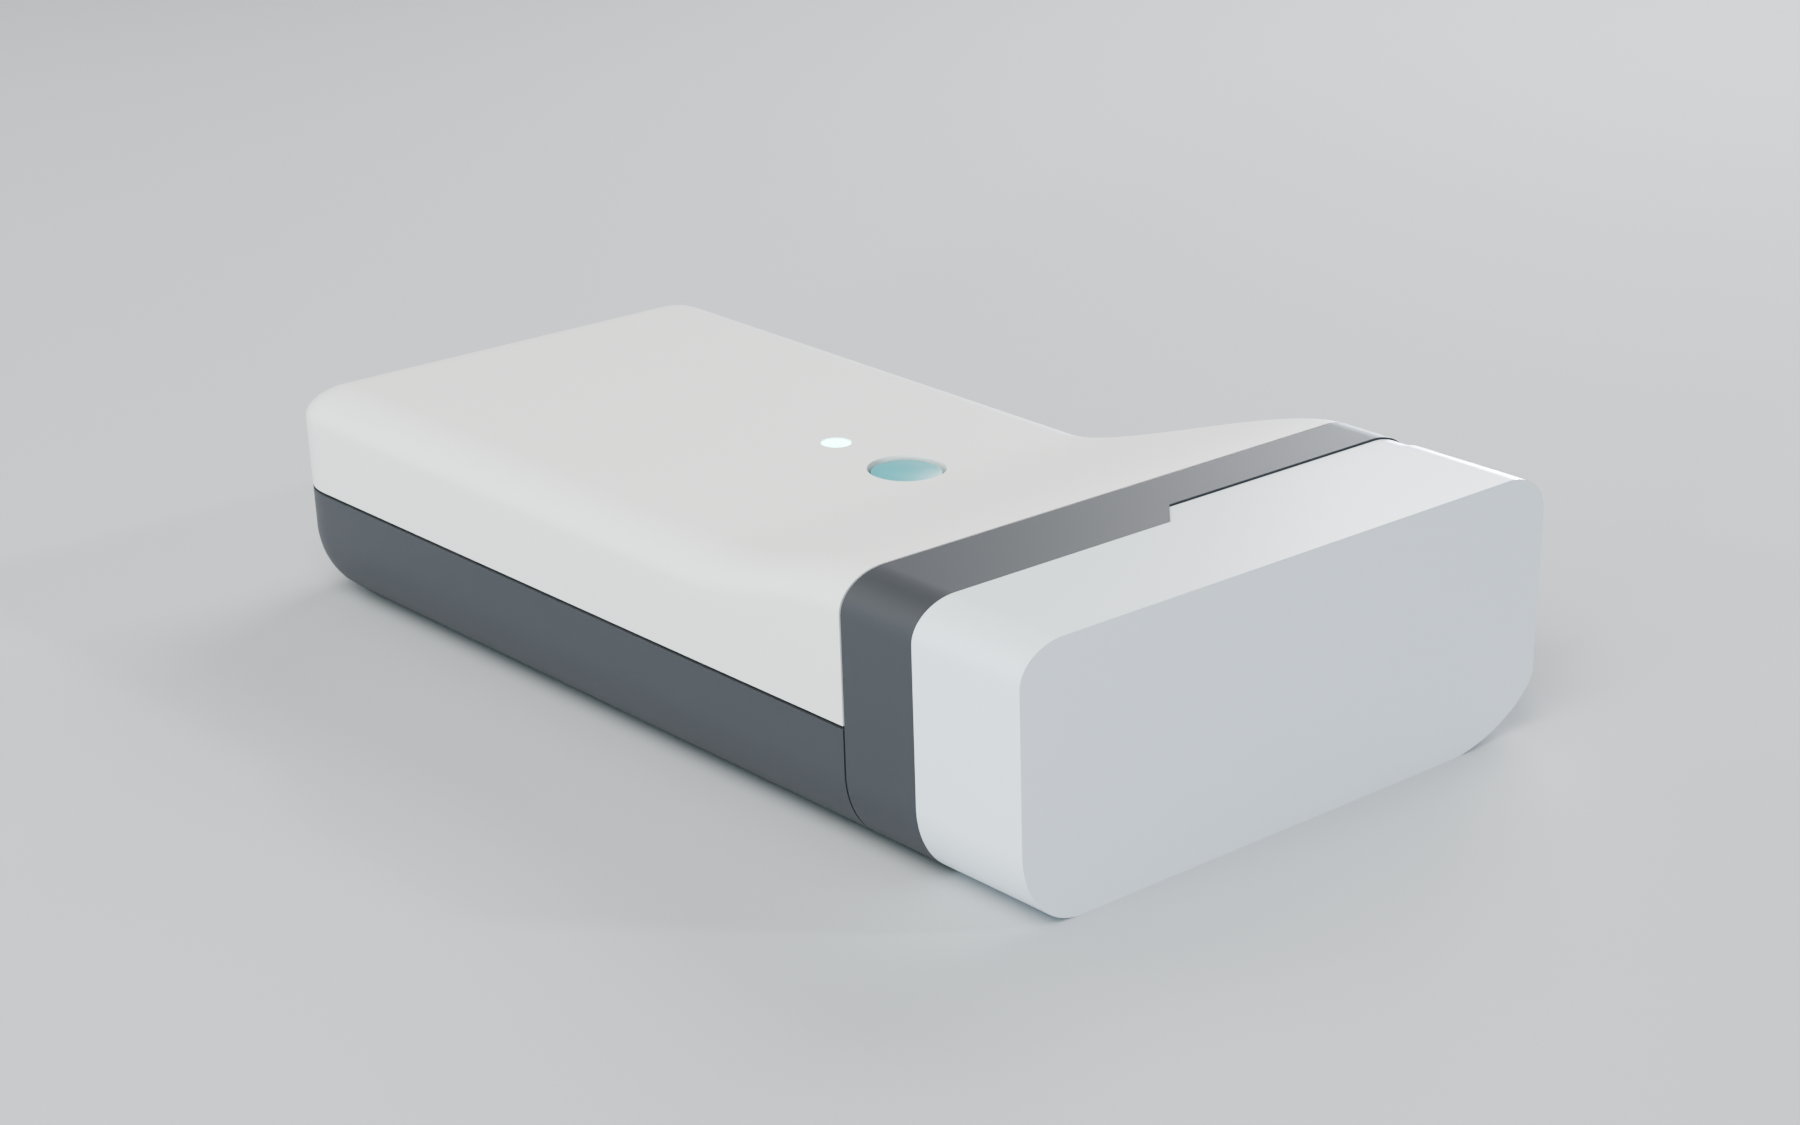
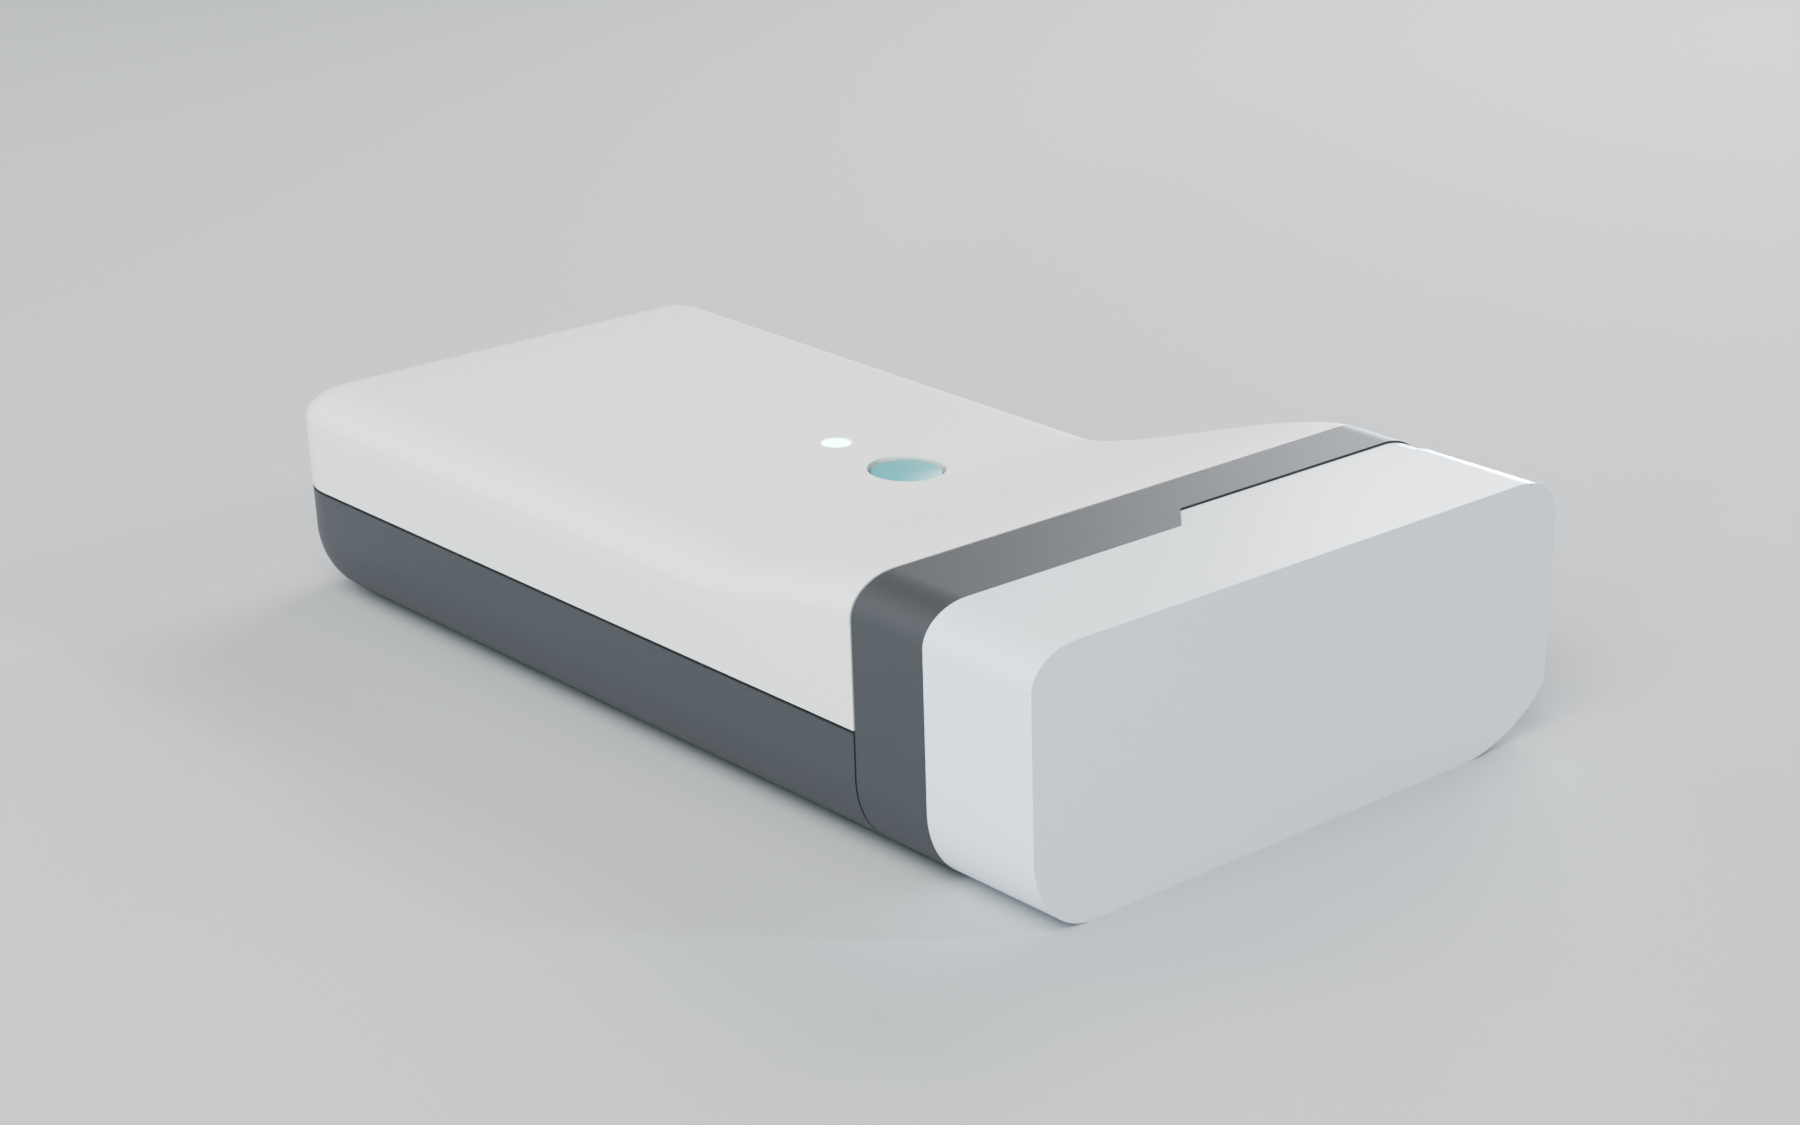
feat(mechanical): cart A v2 rear stop ring behind the cartridge + package review
Owner: the cartridge must not slide back further than intended, only the
inner radius may stay open for the pusher. Before, only the pusher (via
the stopper) held it from behind. Now a ring wall closes the cartridge
chamber behind the barrel: the barrel's rear end face rests on it, d8.9
stays open for the pusher (d8.4) and the stem. On the ring the cap face
sits 0.3 below the head face, the tested adapter seat.

Everything from the cartridge forward moves +1.0 (yoke travel unchanged,
stem 1.0 longer): 81.4 x 49 x 19 with the adapter, full 1.59 ml kept,
envelope 55.9 ml vs the Insight box 83 ml (-33 %). Package check PASS.
Review and open points in CART-A-V2-BRIEF.md section 7 (antenna wing,
connections without soldering, yoke rails, board stop for the USB plug).

TEST ONLY - water only, never on a person.

diff --git a/mechanical/cart_a_v2/package.py b/mechanical/cart_a_v2/package.py
@@ -18,7 +18,7 @@ from itertools import combinations
 from pathlib import Path
 
 import numpy as np
-from build123d import Face, Plane, Solid, Vector, Wire, export_stl, import_step
+from build123d import Face, Plane, Pos, Solid, Vector, Wire, export_stl, import_step
 
 HERE = Path(__file__).resolve().parent
 MECH = HERE.parent
@@ -29,12 +29,13 @@ OUT = MECH / "out" / "cart_a_v2"
 V1 = MECH / "out" / "v010-cart" / "A" / "print"
 
 # ---- form ---------------------------------------------------------------------------------------------------------
-X_JOINT = 64.26            # head module back face (head 6.6 deep, face at 70.86)
-X_FACE = 70.86
+XS = 1.0                   # rear stop ring behind the barrel (owner 2026-11-27): everything from the cartridge forward moves +1.0
+X_JOINT = 64.26 + XS       # head module back face (head 6.6 deep)
+X_FACE = 70.86 + XS
 GAP = 0.15                 # visible joint line body | head
 HEAD_L, HEAD_W = 49.0, 19.0  # head section (width y, height z) = adapter outline
 BODY_L, BODY_W = 38.0, 16.6  # body section: motor edge 36.4 + wall; gear tip 15.04 + wall
-FLARE_X0 = 48.0            # body flares into the head from here (smoothstep, tangent at both ends); top flat before it
+FLARE_X0 = 48.0 + XS       # body flares into the head from here (smoothstep, tangent at both ends); top flat before it
 REAR_R = 5.0               # rear end rounded with this profile radius
 WALL, CLR = 1.2, 0.2
 SEAM_Z = 8.74              # parting line = cartridge axis height
@@ -44,9 +45,9 @@ YC, ZC = 11.46, 8.74       # cartridge axis (fixed by the adapter cup position i
 YS, YM = 25.635, 33.435    # screw lane, motor lane (a = 7.8)
 STROKE = 23.66
 PART_Y = (17.25, 18.85)    # chamber partition (cartridge chamber | drive + electronics)
-BOARD = {"x": (32.6, 61.8), "y": (19.35, 36.3), "pcb_z": (8.34, 9.14), "top": 1.45, "bottom": 1.2}   # pcb centre on the seam (USB-C)
-TONGUE = {"x": (58.0, 62.96), "y": (34.5, 39.96)}
-CELL = {"x": (32.3, 63.8), "y": (23.8, 34.4), "z": (11.1, 14.3)}       # above the board, clear of the top head boss (y <= 23.46)
+BOARD = {"x": (32.6, 61.8 + XS), "y": (19.35, 36.3), "pcb_z": (8.34, 9.14), "top": 1.45, "bottom": 1.2}   # pcb centre on the seam (USB-C)
+TONGUE = {"x": (58.0 + XS, 62.96 + XS), "y": (34.5, 39.96)}
+CELL = {"x": (32.3 + XS, 63.8 + XS), "y": (23.8, 34.4), "z": (11.1, 14.3)}       # above the board, clear of the top head boss (y <= 23.46)
 USB_X, USB_Z = 40.0, 8.74  # mid-mount, centred ON the seam: each half has half the stadium, no thin bridge (owner 2026-11-27)
 BUTTON_XY, LED_XY = (46.5, 21.5), (39.0, 21.5)   # beside the cell, mid top face; 3.6 mm wall between the holes
 HEAD_SCREWS = [(21.46, 3.24), (21.46, 14.04)]   # axial M2 through the head face (under the adapter) into the bottom / top half
@@ -176,15 +177,16 @@ def parts(state: str = "full") -> dict[str, tuple[Solid, str, bool]]:
     dx = STROKE if state == "empty" else 0.0
     pz0, pz1 = BOARD["pcb_z"]
     P: dict[str, tuple[Solid, str, bool]] = {}
-    glass = cyl_x(27.56, 59.56, YC, ZC, 10.95) - cyl_x(27.4, 59.7, YC, ZC, 9.25)
-    glass = glass + (cone_x(59.56, 63.56, YC, ZC, 10.95, 5.6) - cone_x(59.56, 63.0, YC, ZC, 9.25, 3.2))
-    P["cartridge_glass"] = (glass + cyl_x(63.56, 65.66, YC, ZC, 5.6), "glass", False)
-    P["cartridge_cap"] = (cyl_x(65.66, 70.56, YC, ZC, 7.5), "alu", False)
+    c0 = 27.56 + XS                                   # barrel rear end face, sits on the rear stop ring
+    glass = cyl_x(c0, c0 + 32, YC, ZC, 10.95) - cyl_x(c0 - 0.16, c0 + 32.14, YC, ZC, 9.25)
+    glass = glass + (cone_x(c0 + 32, c0 + 36, YC, ZC, 10.95, 5.6) - cone_x(c0 + 32, c0 + 35.44, YC, ZC, 9.25, 3.2))
+    P["cartridge_glass"] = (glass + cyl_x(c0 + 36, c0 + 38.1, YC, ZC, 5.6), "glass", False)
+    P["cartridge_cap"] = (cyl_x(c0 + 38.1, c0 + 43.0, YC, ZC, 7.5), "alu", False)
     if not dx:
-        P["water"] = (cyl_x(35.86, 59.4, YC, ZC, 9.2), "water", True)   # EMPTY: no water left
-    P["stopper"] = (cyl_x(27.86 + dx, 35.86 + dx, YC, ZC, 9.25), "rubber", True)
-    P["pusher"] = (cyl_x(27.06 + dx, 27.86 + dx, YC, ZC, 8.4), "plastic_dark", True)
-    P["stem"] = (cyl_x(3.6 + dx, 27.06 + dx, YC, ZC, 2.0), "steel", True)
+        P["water"] = (cyl_x(c0 + 8.3, c0 + 31.84, YC, ZC, 9.2), "water", True)   # EMPTY: no water left
+    P["stopper"] = (cyl_x(c0 + 0.3 + dx, c0 + 8.3 + dx, YC, ZC, 9.25), "rubber", True)
+    P["pusher"] = (cyl_x(c0 - 0.5 + dx, c0 + 0.3 + dx, YC, ZC, 8.4), "plastic_dark", True)   # passes the d8.9 stop ring
+    P["stem"] = (cyl_x(3.6 + dx, c0 - 0.5 + dx, YC, ZC, 2.0), "steel", True)                 # 1.0 longer than v1
     yoke = box((1.6 + dx, 3.6 + dx), (YC - 3.0, YS + 3.0), (ZC - 2.75, ZC + 2.75))
     P["yoke"] = (yoke, "plastic_dark", True)
     P["screw"] = (cyl_x(0.6, 32.0, YS, ZC, 2.0), "steel", False)          # front end inside rib_f (v1: 32.46)
@@ -201,12 +203,12 @@ def parts(state: str = "full") -> dict[str, tuple[Solid, str, bool]]:
     P["ko_board_top"] = (box((BOARD["x"][0], BOARD["x"][1]), BOARD["y"], (pz1, pz1 + BOARD["top"])), "ko", False)
     P["ko_board_bottom"] = (box((BOARD["x"][0], 60.5), BOARD["y"], (pz0 - BOARD["bottom"], pz0)), "ko", False)
     P["usb_c"] = (box((USB_X - 4.47, USB_X + 4.47), (36.8 - 7.35, 36.8), (USB_Z - 1.63, USB_Z + 1.63)), "steel", False)
-    P["lock_switch"] = (box((59.76, 63.26), (37.46 - 1.75, 37.46 + 1.75), (pz0 - 1.6, pz0)), "black", False)   # tongue underside: actuator ~7.7, pin d2 at 7.07
-    P["lock_pin"] = (cyl_x(63.26, 66.56, 37.46, 7.07, 2.0), "steel", False)
+    P["lock_switch"] = (box((59.76 + XS, 63.26 + XS), (37.46 - 1.75, 37.46 + 1.75), (pz0 - 1.6, pz0)), "black", False)   # tongue underside: actuator ~7.7, pin d2 at 7.07
+    P["lock_pin"] = (cyl_x(63.26 + XS, 66.56 + XS, 37.46, 7.07, 2.0), "steel", False)
     P["tmag"] = (box((32.8, 34.8), (YM - 1.0, YM + 1.0), (pz1, pz1 + 0.75)), "black", False)
     P["sw1"] = (box((BUTTON_XY[0] - 1.75, BUTTON_XY[0] + 1.75), (BUTTON_XY[1] - 1.75, BUTTON_XY[1] + 1.75), (pz1, pz1 + 1.5)), "black", False)
     P["led"] = (box((LED_XY[0] - 0.8, LED_XY[0] + 0.8), (LED_XY[1] - 0.8, LED_XY[1] + 0.8), (pz1, pz1 + 0.6)), "led", False)
-    P["sounder"] = (cyl_z(56.0, 26.0, pz0 - 2.5, pz0, 5.0), "black", False)
+    P["sounder"] = (cyl_z(56.0 + XS, 26.0, pz0 - 2.5, pz0, 5.0), "black", False)
     P["cell"] = (box(CELL["x"], CELL["y"], CELL["z"]), "cell", False)
     return P
 
@@ -220,14 +222,14 @@ def housing_features() -> dict[str, tuple[Solid, str]]:
     """Internal walls that matter for the package (not the whole shell): chamber partition + rear seal ring, head screw bosses,
     button plunger and LED light pipe (they cross the cavity)."""
     H: dict[str, tuple[Solid, str]] = {}
-    sec = [(y, z) for y, z in inner_poly(28.06)]                      # the cavity section, cut at the partition
-    sec = [(min(y, PART_Y[1]), z) for y, z in sec]
+    # rear stop ring = chamber rear wall: the barrel's rear end face (OD 10.95 / ID 9.25) rests on it; only d8.9 stays open for the
+    # pusher (d8.4) and the stem. A 0.5 TPU washer on it takes up the cartridge length tolerance and seals (detail CAD).
+    sec = [(min(y, PART_Y[1]), z) for y, z in inner_poly(28.06)]   # the cavity section, cut at the partition
     face = Face(Wire.make_polygon([Vector(27.56, y, z) for y, z in sec], close=True))
-    seal = Solid.extrude(face, Vector(1.0, 0, 0)) - cyl_x(27.4, 28.7, YC, ZC, 11.25)
-    H["chamber_seal"] = (seal, "shell")
+    H["rear_stop"] = (Solid.extrude(face, Vector(XS, 0, 0)) - cyl_x(27.4, 28.7, YC, ZC, 8.9), "shell")
     H["partition"] = (box((27.56, X_JOINT - GAP), PART_Y, (WALL, 15.4)), "shell")
     for k, (y, z) in enumerate(HEAD_SCREWS):
-        H[f"head_boss{k}"] = (cyl_x(60.86, X_JOINT - GAP, y, z, 4.0), "shell")
+        H[f"head_boss{k}"] = (cyl_x(60.86 + XS, X_JOINT - GAP, y, z, 4.0), "shell")
     bx, by = BUTTON_XY
     H["button_plunger"] = (cyl_z(bx, by, BOARD["pcb_z"][1] + 1.6, top_z(bx, by) - 0.05, 3.0), "accent")
     lx, ly = LED_XY
@@ -239,7 +241,7 @@ EXCLUDE = {frozenset(p) for p in [("cartridge_glass", "stopper"), ("cartridge_gl
                                    ("pusher", "stem"), ("stem", "yoke"), ("yoke", "screw"), ("screw", "gear"), ("screw", "washer_r"),
                                    ("screw", "washer_f"), ("gear", "washer_r"), ("gear", "washer_f"), ("gear", "pinion"), ("motor", "gearhead"),
                                    ("motor", "motor_rear"), ("gearhead", "shaft"), ("shaft", "pinion"), ("pinion", "magnet"),
-                                   ("cartridge_glass", "cartridge_cap"), ("cartridge_glass", "pusher"), ("cartridge_glass", "chamber_seal"),
+                                   ("cartridge_glass", "cartridge_cap"), ("cartridge_glass", "pusher"), ("cartridge_glass", "rear_stop"),
                                    ("board", "ko_board_top"), ("board", "ko_board_bottom"), ("board", "usb_c"), ("board", "lock_switch"),
                                    ("board", "tmag"), ("board", "sw1"), ("board", "led"), ("board", "sounder"), ("ko_board_top", "usb_c"),
                                    ("ko_board_bottom", "usb_c"), ("ko_board_top", "lock_switch"), ("ko_board_top", "tmag"), ("ko_board_top", "sw1"),
@@ -284,9 +286,9 @@ def main() -> None:
     write_stl(OUT / "body_inset_seam.stl", rings_to_tris(body_rings(e=0.35)))
     body_vol = mesh_volume(outer)
 
-    head = import_step(str(V1 / "cart_A_front_module_placed.step"))
-    adapter = import_step(str(V1 / "cart_A_adapter_dummy_placed.step"))
-    needle = import_step(str(V1 / "cart_A_needle_placed.step"))
+    head = Pos(XS, 0, 0) * import_step(str(V1 / "cart_A_front_module_placed.step"))      # v1 head (KOPF9 geometry), moved +XS
+    adapter = Pos(XS, 0, 0) * import_step(str(V1 / "cart_A_adapter_dummy_placed.step"))
+    needle = Pos(XS, 0, 0) * import_step(str(V1 / "cart_A_needle_placed.step"))
     for nm, shp in (("head", head), ("adapter", adapter), ("needle", needle)):
         export_stl(shp, str(OUT / f"{nm}.stl"), tolerance=0.01, angular_tolerance=0.1)
     hb, ab = head.bounding_box(), adapter.bounding_box()

diff --git a/mechanical/cart_a_v2/render.py b/mechanical/cart_a_v2/render.py
@@ -166,7 +166,7 @@ def box_obj(name: str, x, y, z) -> bpy.types.Object:
 def build_body(M: dict) -> bpy.types.Object:
     body = imp(SRC / "body_outer.stl", "body")
     inset = imp(SRC / "body_inset_seam.stl", "body_inset")
-    slab = box_obj("seam_slab", (-3, 66), (-3, 62), (SEAM_Z - 0.13, SEAM_Z + 0.13))
+    slab = box_obj("seam_slab", (-3, 67), (-3, 62), (SEAM_Z - 0.13, SEAM_Z + 0.13))
     boolean(slab, inset)                                   # ring-shaped cutter: the 0.35 skin within the seam band
     boolean(body, slab)
     # USB-C: stadium in the connector's own shape (8.94 x 3.26 + 0.25 per side), 45 deg chamfer outside
@@ -309,8 +309,8 @@ def stage() -> None:
 
 
 def insight_outline(M: dict) -> None:
-    """Accu-Chek Insight footprint 84 x 52 (user manual App. A) as a thin frame on the floor, its adapter end on ours (x 80.36)."""
-    x1, x0, y0 = 80.36, 80.36 - 84.0, 24.5 - 26.0
+    """Accu-Chek Insight footprint 84 x 52 (user manual App. A) as a thin frame on the floor, its adapter end on ours (x 81.36)."""
+    x1, x0, y0 = 81.36, 81.36 - 84.0, 24.5 - 26.0
     y1 = y0 + 52.0
     t = 0.5
     frame = mat_principled("insight_line", (0.85, 0.25, 0.12, 1), 0.5, 0.0, **{"Emission Color": (0.85, 0.25, 0.12, 1), "Emission Strength": 0.6})

diff --git a/mechanical/CART-A-V2-BRIEF.md b/mechanical/CART-A-V2-BRIEF.md
@@ -84,6 +84,31 @@ then the form, then CAD. Nothing goes into CAD that is not on this list; nothing
 - Head fixing: 2 axial M2 through the head face (hidden under the adapter) into bosses of the bottom half (y 21.46, z 3.24) and the top
   half (z 14.04, moved up 0.8 to clear the cell) + the collar in the groove; rear end by non-flexing hooks. No screw visible on the case.
 - Check: all parts fit the cavity with 0.2 clearance at FULL and EMPTY; no collisions (intended contacts excluded).
-- **Size: 80.4 x 49 x 19 with the adapter; envelope 55.3 ml (body 40.7 + head 6.0 + adapter 8.6) vs the Insight box 83 ml: -33 %.**
+- **Size (with the rear stop ring, below): 81.4 x 49 x 19 with the adapter; envelope 55.9 ml vs the Insight box 83 ml: -33 %.**
 - Renders: `cart_a_v2/renders/v2_hero_front.png`, `v2_hero_rear.png`, `v2_xray.png`, `v2_top.png` (Insight footprint in orange),
   `v2_usb.png` (USB-C on the seam).
+
+## 7. Rear stop + review (2026-11-27)
+**Rear stop (owner: the cartridge must not slide back further than intended).** Before, only the pusher (via the stopper) held the
+cartridge from behind, so pushing a cartridge in would have pushed its stopper. Now a ring wall closes the chamber behind the barrel
+(x 27.56-28.56): the barrel's rear end face (r 4.63-5.48) rests on it, only d8.9 stays open for the pusher (d8.4) and the stem. With the
+cartridge on the ring its cap face is 0.3 below the head face, exactly the adapter seat of the tested lock. Cost: everything from the
+cartridge forward moves +1.0 (yoke travel unchanged, stem 1.0 longer): 81.4 mm with the adapter, full 1.59 ml kept.
+
+**Mechanical / technical review of the package (what holds, what is open):**
+- Force path OK: pusher -> stopper -> barrel -> cap -> adapter cup -> bayonet -> head -> 2 axial M2 + collar -> shells; screw thrust ->
+  gear washers -> ribs -> shells. Thrust 33 N vs 18.1 N needed (1.83x, v1 drive unchanged). Stem d2 x 24.5 steel: Euler ~2.6 kN.
+- M2 x 0.4 screw is self-locking: pressure cannot push the stopper back; the rod only moves under power, behind the interlock.
+- Insertion: adapter off (unlocked) -> reverse allowed -> rod home -> cartridge in until it sits on the ring -> adapter on, 90 deg ->
+  lock switch closes -> forward allowed -> firmware advances to stopper contact -> prime. Consistent with LOCKED XOR reverse.
+- Yoke: the thrust line (stem) is 14.2 mm off the screw axis, ~470 N mm tilting moment at stall: needs long rails in both halves
+  (detail CAD) so the nut does not bind. This is the price of the 4.4 mm shorter yoke drive.
+- Board sits in the parting plane (pcb z 8.34-9.14 around the seam 8.74): clamped between ledges of both halves; its near edge must
+  bear on a ledge step at the partition so the USB-C plug force has a stop (detail CAD).
+- **Open: antenna.** The cell lies over the board; the HJ-840 antenna end needs >= 3 mm from the pouch (metal laminate), away from the
+  water and the motor: give the board a wing into the flare (about x 54-59, y 36.3-39.8) for the antenna end. Electronics to confirm.
+- **Open: no soldering (spec 1a).** Cell with a JST-SH lead to a board connector; motor: pre-wired with a connector or spring contacts
+  (also open in v1).
+- Tolerance: the stop is rigid; the cartridge length tolerance is taken by the adapter's seal on the cap (as on the Insight). A 0.5
+  TPU washer on the ring would need the ring 0.5 further back (yoke gap is only 0.3): not planned.
+- Option: a small drain at the front of the chamber floor so leak water leaves instead of standing in the chamber.

diff --git a/docs/STATUS.md b/docs/STATUS.md
@@ -13,7 +13,9 @@ barrel; board 29.2 x 17 + tongue beside the chamber with its centre on the seam,
 in y; USB-C stadium centred on the seam (owner: no thin bridge between port and seam), button + LED light pipe on the flat top, sounder
 slots in the floor; head held by 2 axial M2 through its face (under the
 adapter) + collar, rear by hooks (no visible screws). Check: every part fits the cavity with 0.2 clearance at FULL and EMPTY, no collisions.
-**Size: 80.4 x 49 x 19 with the adapter (Insight 84 x 52 x 19); envelope 55.3 ml vs the Insight box 83 ml (-33 %).** Renders
+**Size: 81.4 x 49 x 19 with the adapter (Insight 84 x 52 x 19); envelope 55.9 ml vs the Insight box 83 ml (-33 %).** Rear stop ring
+(owner): the barrel rests on a d8.9 ring wall behind it (pusher d8.4 passes), +1.0 length, full 1.59 ml kept; review + open points in
+the brief section 7 (antenna wing into the flare, motor/cell connection without soldering, yoke rails, board stop for the USB plug). Renders
 (`mechanical/cart_a_v2/render.py`, Blender 5.2 Cycles): `mechanical/cart_a_v2/renders/v2_*.png` (white top / graphite bottom, x-ray, top view
 with the Insight footprint). v1 files and KOPF9 unchanged. **Open:** owner review of the form; then detailed CAD (shell halves, hooks,
 collar, saddles, board ledges), check, print files.
